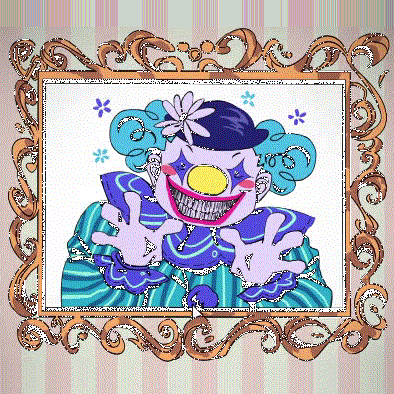
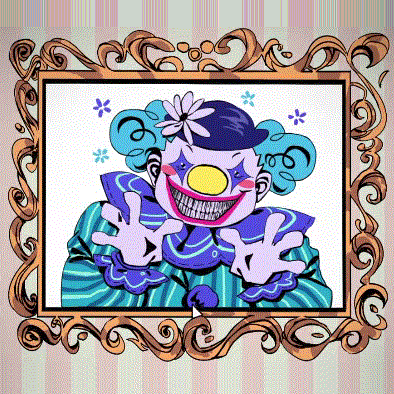
Thumbnail do jogo exibit of sorrow consertada

diff --git a/jogos.js b/jogos.js
@@ -718,7 +718,7 @@ const jogos = [
   {
     id: "exhibitofsorrow",
     nome: "Exhibit Of Sorrows",
-    thumb: "assets/thumbnail/exibitofsmt.webpq",
+    thumb: "assets/thumbnail/exibitofsmt.webp",
     type: "external",
     url: "https://adayofjoy.itch.io/exhibit-of-sorrows",
     rating: "A16",